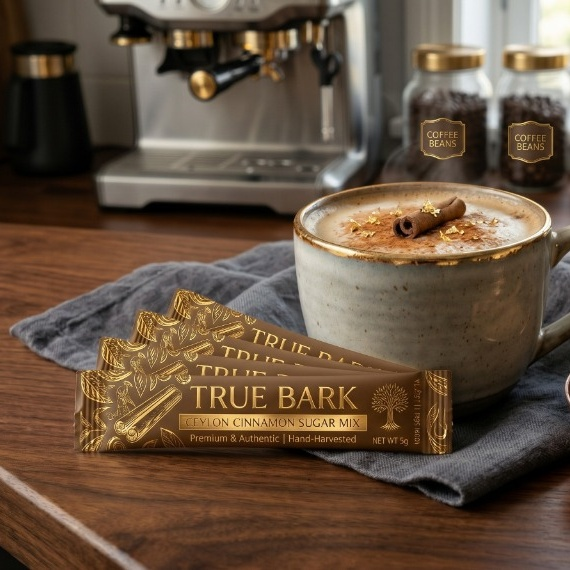
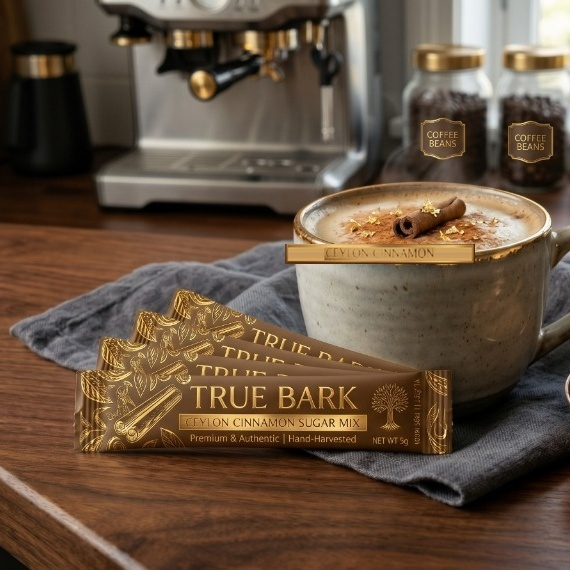
Swap all instances and records of Ceylon Cinnamon Sugar Mix with Ceylon Cinnamon across catalog, UI, filters, reviews, and stick packshot

Changed region(s): [[0.4772, 0.4175, 0.8351, 0.4772]]

diff --git a/index.html b/index.html
@@ -4,7 +4,7 @@
   <meta charset="UTF-8">
   <meta name="viewport" content="width=device-width, initial-scale=1.0">
   <title>True Bark | Pure Ceylon Cinnamon & Barista Coffee Spices</title>
-  <meta name="description" content="Discover True Bark: Pure, unadulterated Ceylon cinnamon from Sri Lanka. Featuring single-serve Ceylon cinnamon sugar sticks and heirloom keepsake tins.">
+  <meta name="description" content="Discover True Bark: Pure, unadulterated Ceylon cinnamon from Sri Lanka. Featuring single-serve Ceylon cinnamon sticks and heirloom keepsake tins.">
   
   <!-- Google Fonts: Cormorant Garamond, Plus Jakarta Sans, Playfair Display & Lato -->
   <link rel="preconnect" href="https://fonts.googleapis.com">
@@ -78,7 +78,7 @@
     <!-- Quick Search Dropdown -->
     <div class="search-overlay" id="search-overlay" hidden>
       <div class="search-inner">
-        <input type="search" id="store-search-input" placeholder="Search True Bark (e.g. Sugar Mix, Espresso Tin)..." aria-label="Search catalog">
+        <input type="search" id="store-search-input" placeholder="Search True Bark (e.g. Ceylon Cinnamon, Espresso Tin)..." aria-label="Search catalog">
         <button class="search-close-btn" id="search-close-btn" aria-label="Close search">&times;</button>
       </div>
     </div>
@@ -178,10 +178,8 @@
         <!-- Filter Tabs -->
         <div class="filter-tabs" role="tablist" aria-label="Product categories">
           <button class="filter-tab active" data-filter="all" role="tab" aria-selected="true">All Harvests</button>
-          <button class="filter-tab" data-filter="sticks" role="tab" aria-selected="false">Sugar Mix Sticks (5g)</button>
+          <button class="filter-tab" data-filter="sticks" role="tab" aria-selected="false">Ceylon Cinnamon Sticks (5g)</button>
           <button class="filter-tab" data-filter="tins" role="tab" aria-selected="false">Keepsake Tins</button>
-          <button class="filter-tab" data-filter="quills" role="tab" aria-selected="false">Whole Alba Quills</button>
-          <button class="filter-tab" data-filter="gift" role="tab" aria-selected="false">Connoisseur Sets</button>
         </div>
       </div>
 
@@ -250,7 +248,7 @@
           <div class="review-stars">&#9733;&#9733;&#9733;&#9733;&#9733;</div>
           <h4 class="review-heading">"Game changer for my morning latte."</h4>
           <p class="review-quote">
-            "The True Bark Sugar Mix sticks are genius. I keep a box by my espresso machine. One stick dusted over the microfoam gives this incredible sweet aroma without any bitter throat catch."
+            "The True Bark Ceylon Cinnamon sticks are genius. I keep a box by my espresso machine. One stick dusted over the microfoam gives this incredible sweet aroma without any bitter throat catch."
           </p>
           <div class="reviewer-meta">
             <span class="reviewer-name">Marcus V.</span>
@@ -319,10 +317,10 @@
         <h4>The Collection</h4>
         <ul>
           <li><a href="#quick-order-section">All Harvests</a></li>
-          <li><a href="#quick-order-section" onclick="filterCategory('sticks')">Sugar Mix Sticks (5g)</a></li>
-          <li><a href="#quick-order-section" onclick="filterCategory('tins')">Standard Gold Tin</a></li>
-          <li><a href="#quick-order-section" onclick="filterCategory('tins')">Artisan Kraft Brown Tin</a></li>
-          <li><a href="#quick-order-section" onclick="filterCategory('quills')">Whole Alba Quills</a></li>
+          <li><a href="#quick-order-section" onclick="filterCategory('sticks')">Ceylon Cinnamon Sticks (5g)</a></li>
+          <li><a href="#quick-order-section" onclick="filterCategory('tins')">Standard Gold Tin (140g)</a></li>
+          <li><a href="#quick-order-section" onclick="filterCategory('tins')">Artisan Kraft Brown Tin (140g)</a></li>
+          <li><a href="#quick-order-section" onclick="filterCategory('tins')">Twin Reserve Keepsake Duo</a></li>
         </ul>
       </div>
       <div class="footer-col">

diff --git a/app.js b/app.js
@@ -9,19 +9,19 @@
 const PRODUCTS = [
   {
     id: "true-bark-sugar-mix",
-    name: "True Bark Ceylon Cinnamon Sugar Mix",
+    name: "True Bark Ceylon Cinnamon",
     subtitle: "5g Single-Serve Barista Sticks | Premium & Authentic Hand-Harvested",
     category: "sticks",
     categoryName: "Single-Serve Sticks",
     badge: "Barista Favorite",
     rating: 4.98,
     reviewsCount: 184,
-    description: "Formulated for specialty coffee lovers. Micro-milled pure Ceylon cinnamon blended with unrefined golden cane crystals in airtight 5g single-serve packets. Melts into espresso crema, lattes, or oatmeal without astringent sediment.",
+    description: "Formulated for specialty coffee lovers. Micro-milled pure Ceylon cinnamon in airtight 5g single-serve packets. Melts into espresso crema, lattes, or oatmeal without astringent sediment.",
     weight: "5g per stick (Net Wt 125g / 250g)",
     coumarin: "< 0.004% (Lab Certified)",
     origin: "Southern Coast, Sri Lanka",
     image: "assets/images/sugar-mix-square.jpg",
-    gallery: ["assets/images/sugar-mix-square.jpg", "assets/images/sugar-mix-sachets.jpg"],
+    gallery: ["assets/images/sugar-mix-square.jpg", "assets/images/cinnamon-stick-detail.jpg", "assets/images/sugar-mix-sachets.jpg"],
     variants: [
       { id: "box-25", name: "Box of 25 Sticks", price: 22.00, subPrice: 18.70 },
       { id: "box-50", name: "Cafe Box of 50", price: 38.00, subPrice: 32.30 },
@@ -909,7 +909,7 @@ function setupEventListeners() {
         p.subtitle.toLowerCase().includes(query)
       );
       if (matched.length === 0) {
-        grid.innerHTML = `<div style="grid-column: 1/-1; text-align: center; padding: 40px;">No spices matching "${query}". Try "Sugar Mix", "Tin", or "Quills".</div>`;
+        grid.innerHTML = `<div style="grid-column: 1/-1; text-align: center; padding: 40px;">No spices matching "${query}". Try "Cinnamon Sticks", "Tin", or "Powder".</div>`;
       } else {
         grid.innerHTML = matched.map((product) => {
           const defaultVariant = product.variants[product.defaultVariantIndex];

diff --git a/README.md b/README.md
@@ -8,16 +8,13 @@ A luxury e-commerce storefront crafted for **True Bark**, an artisanal spice and
 
 ## 🌟 The Product Line
 
-1. **True Bark Ceylon Cinnamon Sugar Mix (5g Sticks)**
+1. **True Bark Ceylon Cinnamon (5g Sticks)**
    - Single-serve golden packets designed to dissolve into espresso crema, lattes, cappuccinos, oatmeal, and toast.
    - Preserves volatile essential oils with an aroma-locked foil barrier.
 2. **True Bark Ceylon Cinnamon Powder — Keepsake Metal Tins**
    - **Standard Gold & Dark Espresso Tin (140g)**: Collector's embossed metal tin celebrating Sri Lankan harvester heritage.
    - **Artisan Kraft Sample Brown Tin (140g)**: Lightweight pantry edition with rustic twine seal.
-3. **Hand-Rolled Alba Grade Quills**
-   - Slender cigar-rolled paper-thin inner bark sticks in an apothecary glass jar.
-4. **The Barista & Connoisseur Tasting Set**
-   - Deluxe collector's gift box including the Gold & Espresso tin, a 25-pack of Sugar Mix Sticks, a hand-hammered copper tasting dish, and an engraved brass measuring spoon.
+   - **Twin Reserve Set (2x 140g)**: Both heirloom keepsake tins in a collector's duo set.
 
 ---
 
